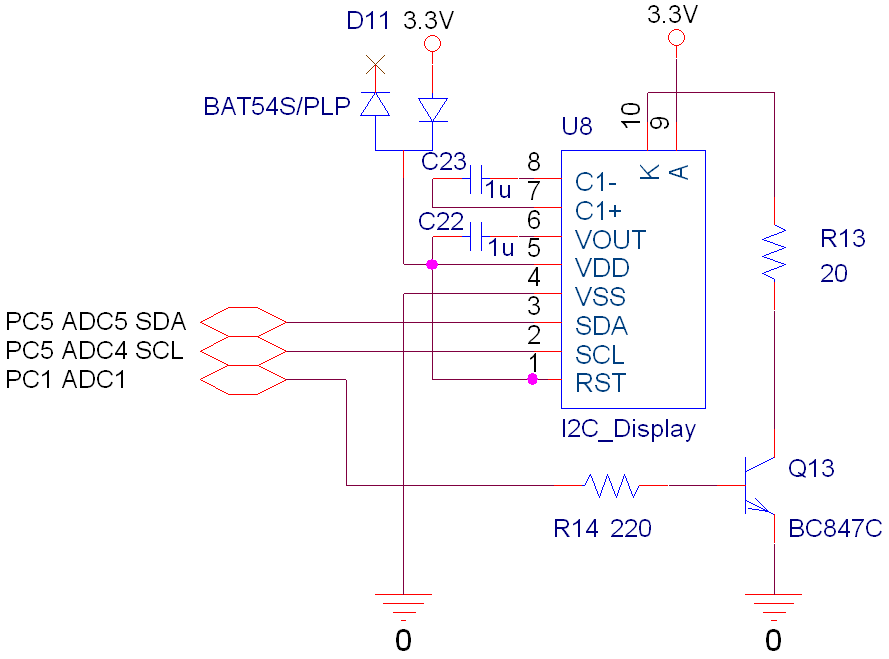
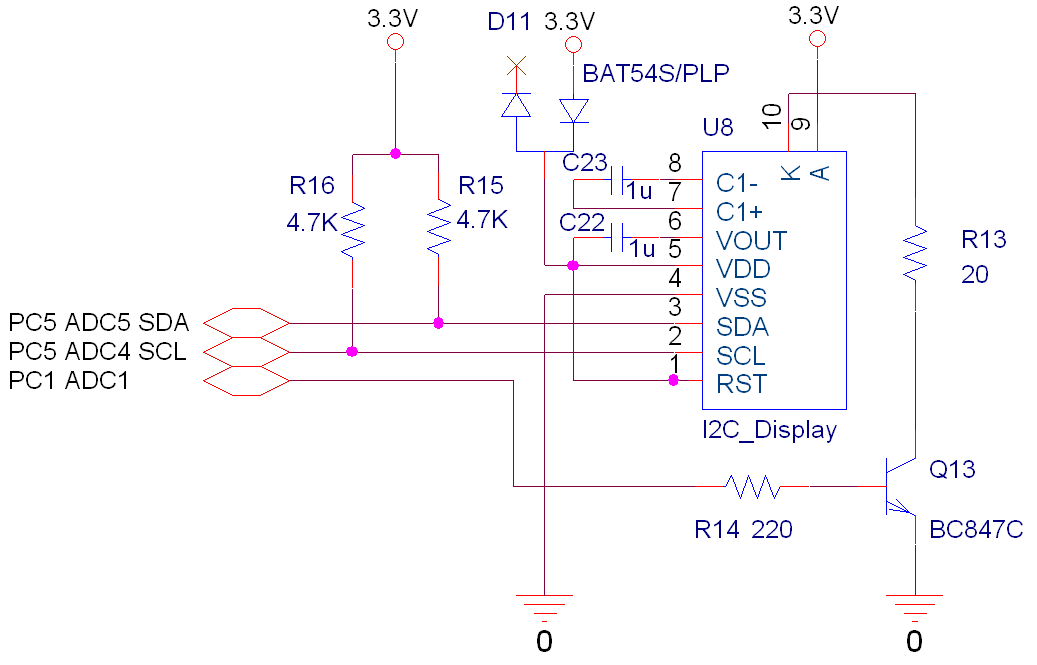
HWimp - Display

diff --git a/LaTeX/projektdokumentation/hwimplementering/display.tex b/LaTeX/projektdokumentation/hwimplementering/display.tex
@@ -8,4 +8,4 @@ Af krav til displayet var at det skulle køre på 3.3V, kommunikere over I2C bus
 	\label{fig:display_diagram}
 \end{figure}
 
-% HERTIL
+D11 sidder som ESD bestykkelse, C22 sidde over pin5 og pin6 som udgangskondesator for Step-up konverteren, C23 sidder over pin7 og pin8 som en integreret del af step-up konverteren og disse værdier er valgt ud fra databladet anbefalinger. Derudover benyttes Q13 for at kontrollere LED'en til baggrundsbelysningen hvormed dette kan styres fra software. SDA og SCL linjerne har pull-up modstande påsat som en del af standardopsætning for I2C-bussen, disse værdier er valgt ud fra den relative korte banelængde på sidde 2.
